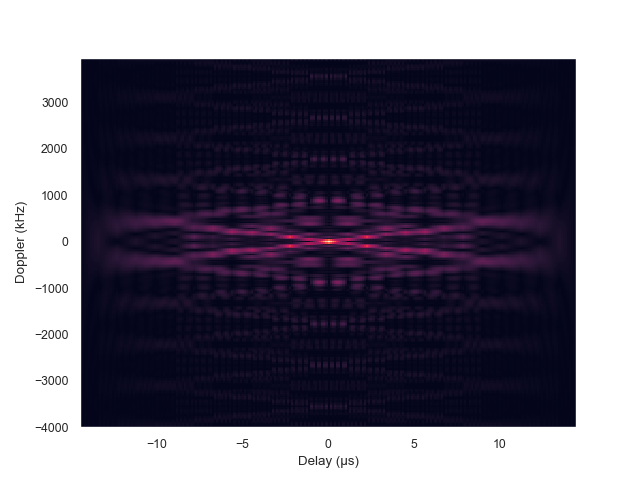
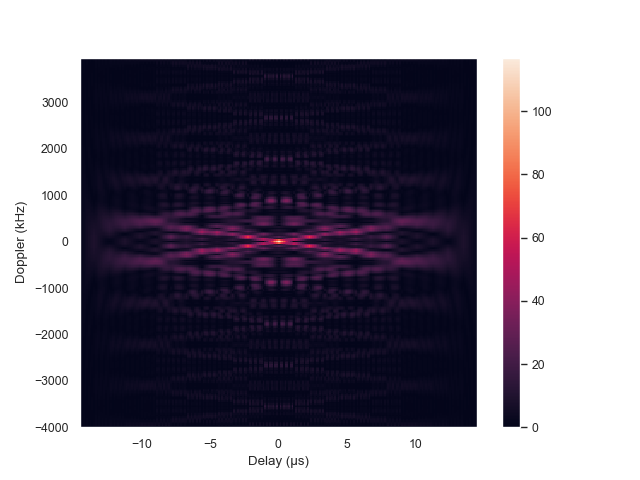
Add colormaps to heatmaps

diff --git a/ambiguity_functions.py b/ambiguity_functions.py
@@ -61,8 +61,9 @@ t = np.arange(0, tx, step=ts)
 x = np.ones(np.shape(t))
 ambig, delay, doppler = ambgfun(x, fs)
 
-plt.figure()
-plt.pcolormesh(delay / 1e-6, doppler / 1e3, np.abs(ambig))
+fig = plt.figure()
+im = plt.pcolormesh(delay / 1e-6, doppler / 1e3, np.abs(ambig))
+fig.colorbar(im)
 plt.xlabel("Delay (μs)")
 plt.ylabel("Doppler (kHz)")
 plt.savefig("images/pulse_ambigfun.png")
@@ -97,8 +98,9 @@ theta = - np.pi * bw * t + np.pi * chirpyness * t**2
 x = np.exp(1j * theta)
 ambig, delay, doppler = ambgfun(x, fs)
 
-plt.figure()
-plt.pcolormesh(delay / 1e-6, doppler / 1e3, np.abs(ambig))
+fig = plt.figure()
+im = plt.pcolormesh(delay / 1e-6, doppler / 1e3, np.abs(ambig))
+fig.colorbar(im)
 plt.xlabel("Delay (μs)")
 plt.ylabel("Doppler (kHz)")
 plt.savefig("images/lfm_ambigfun.png")
@@ -132,8 +134,9 @@ plt.figure()
 plt.plot(x)
 plt.savefig("images/barker_waveform.png")
 
-plt.figure()
-plt.pcolormesh(delay / 1e-6, doppler / 1e3, np.abs(ambig))
+fig = plt.figure()
+im = plt.pcolormesh(delay / 1e-6, doppler / 1e3, np.abs(ambig))
+fig.colorbar(im)
 plt.xlabel("Delay (μs)")
 plt.ylabel("Doppler (kHz)")
 plt.savefig("images/barker_ambigfun.png")
